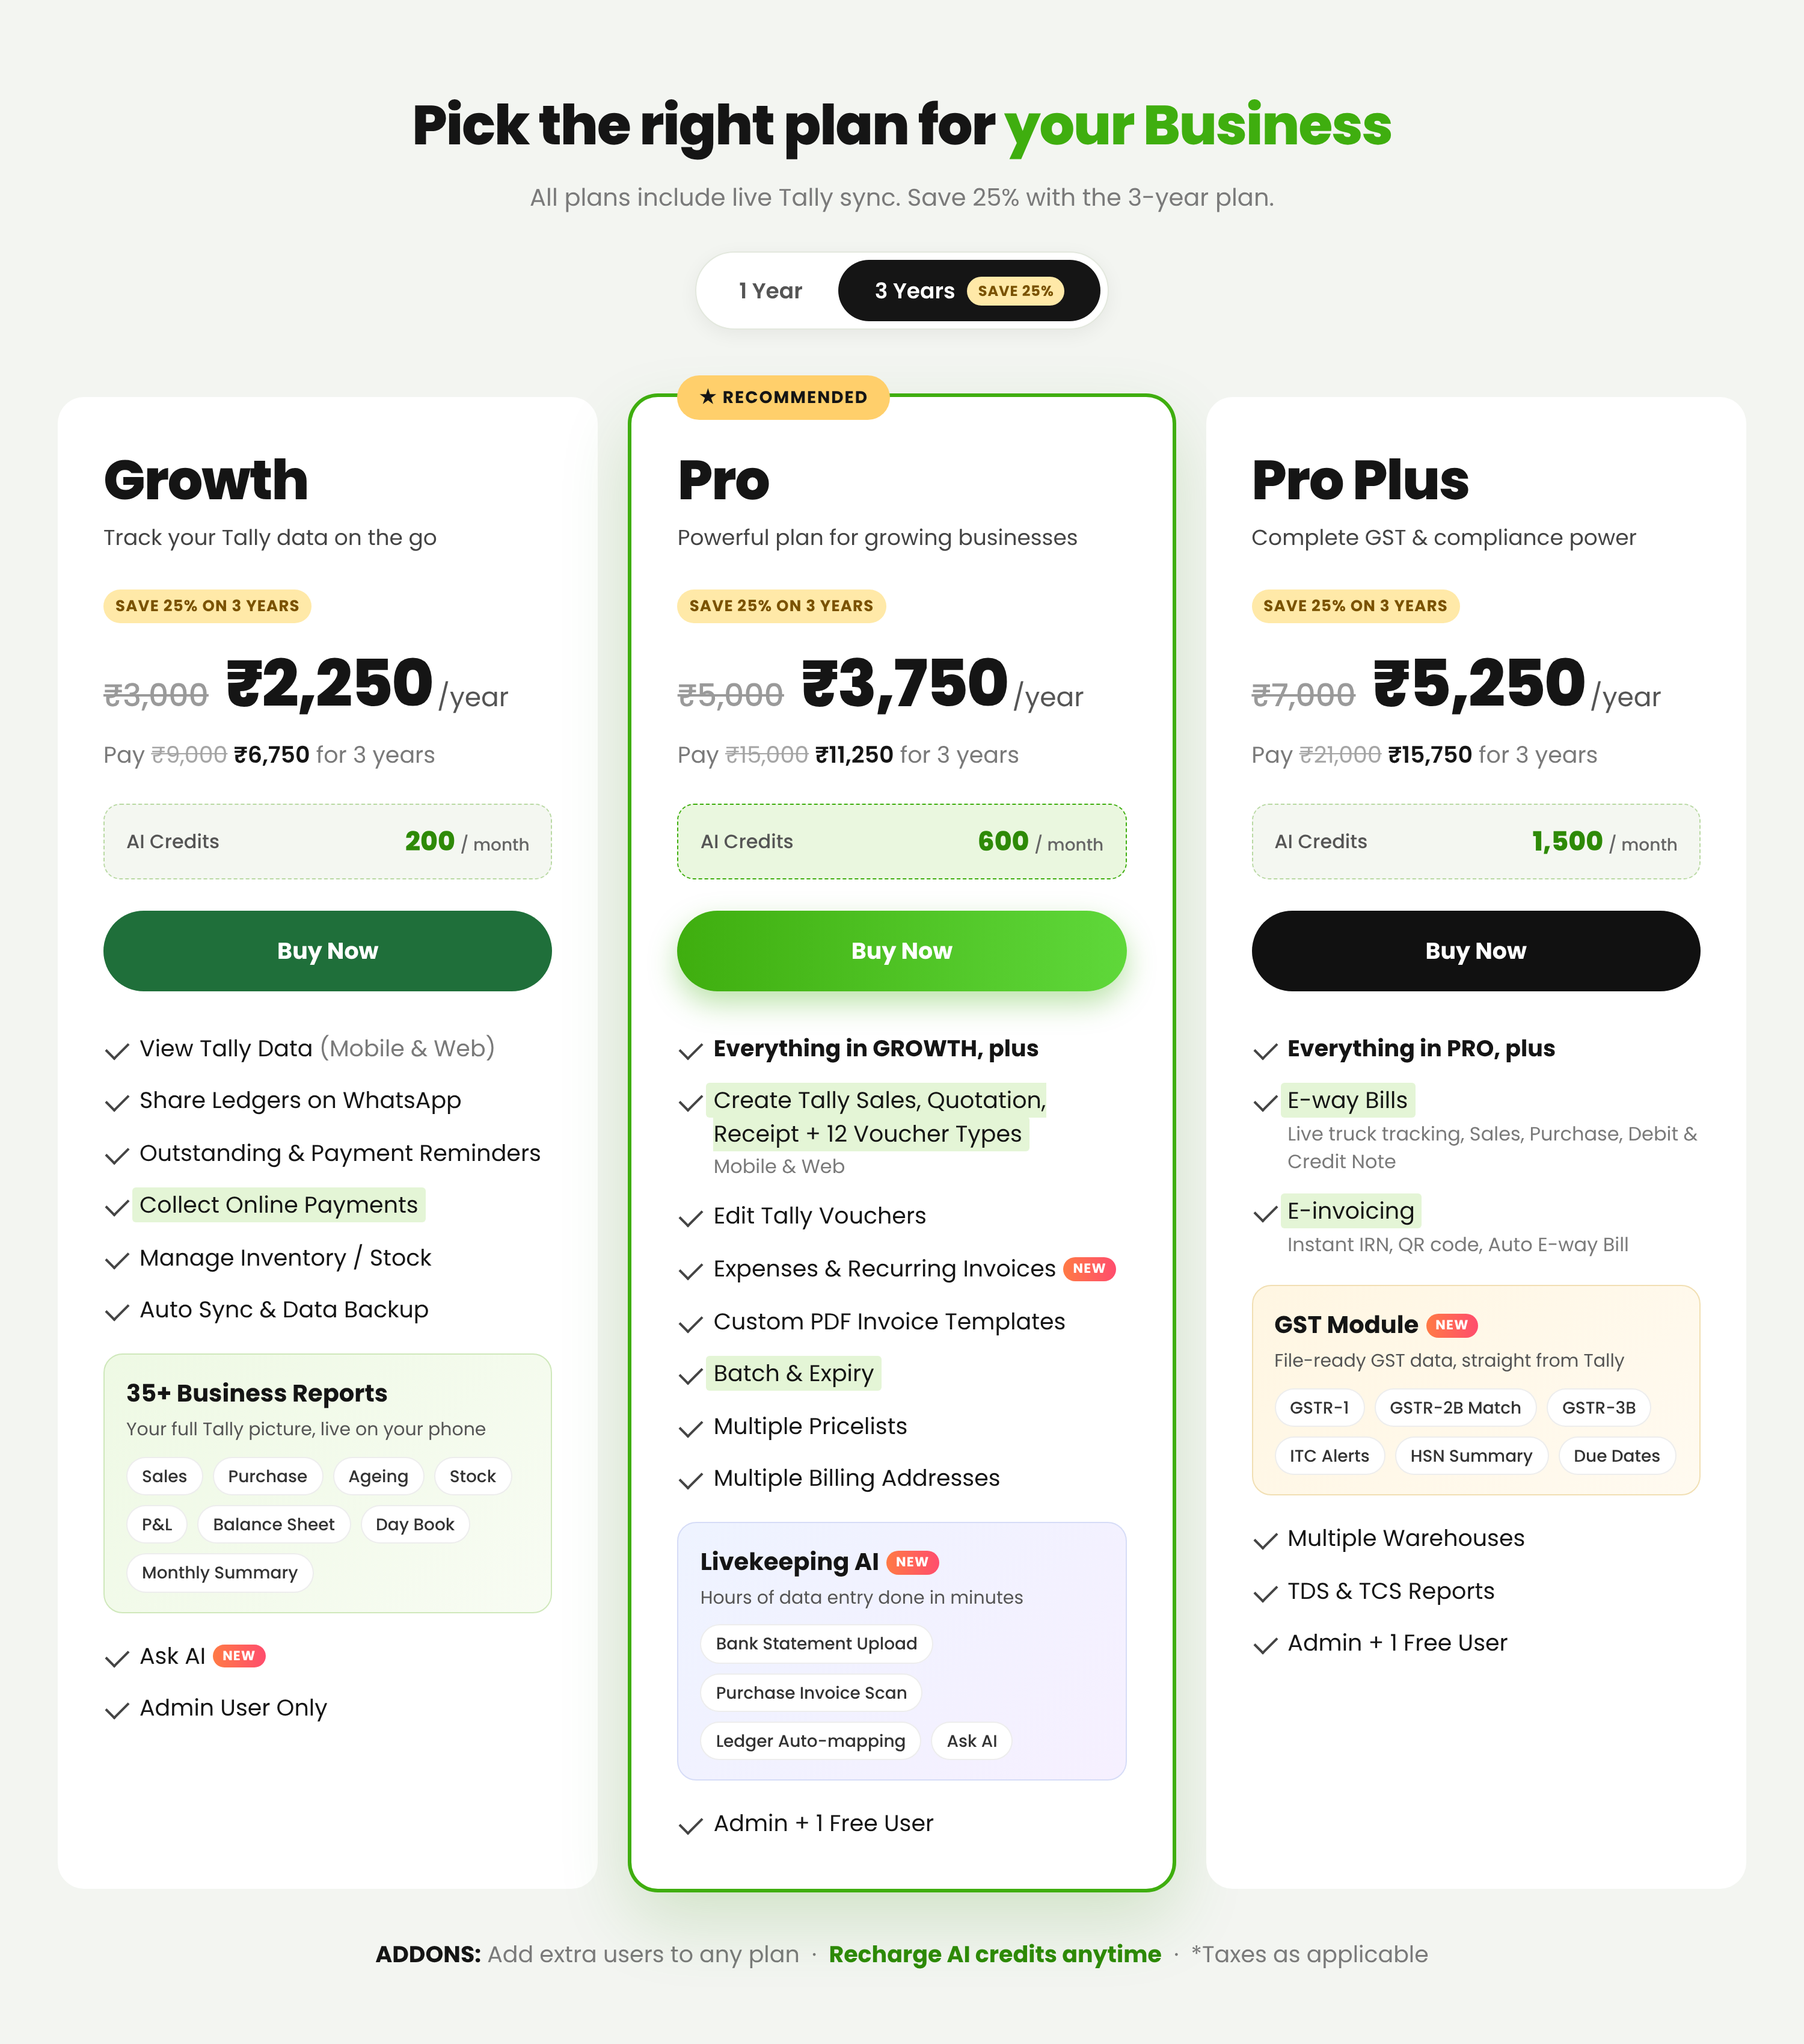
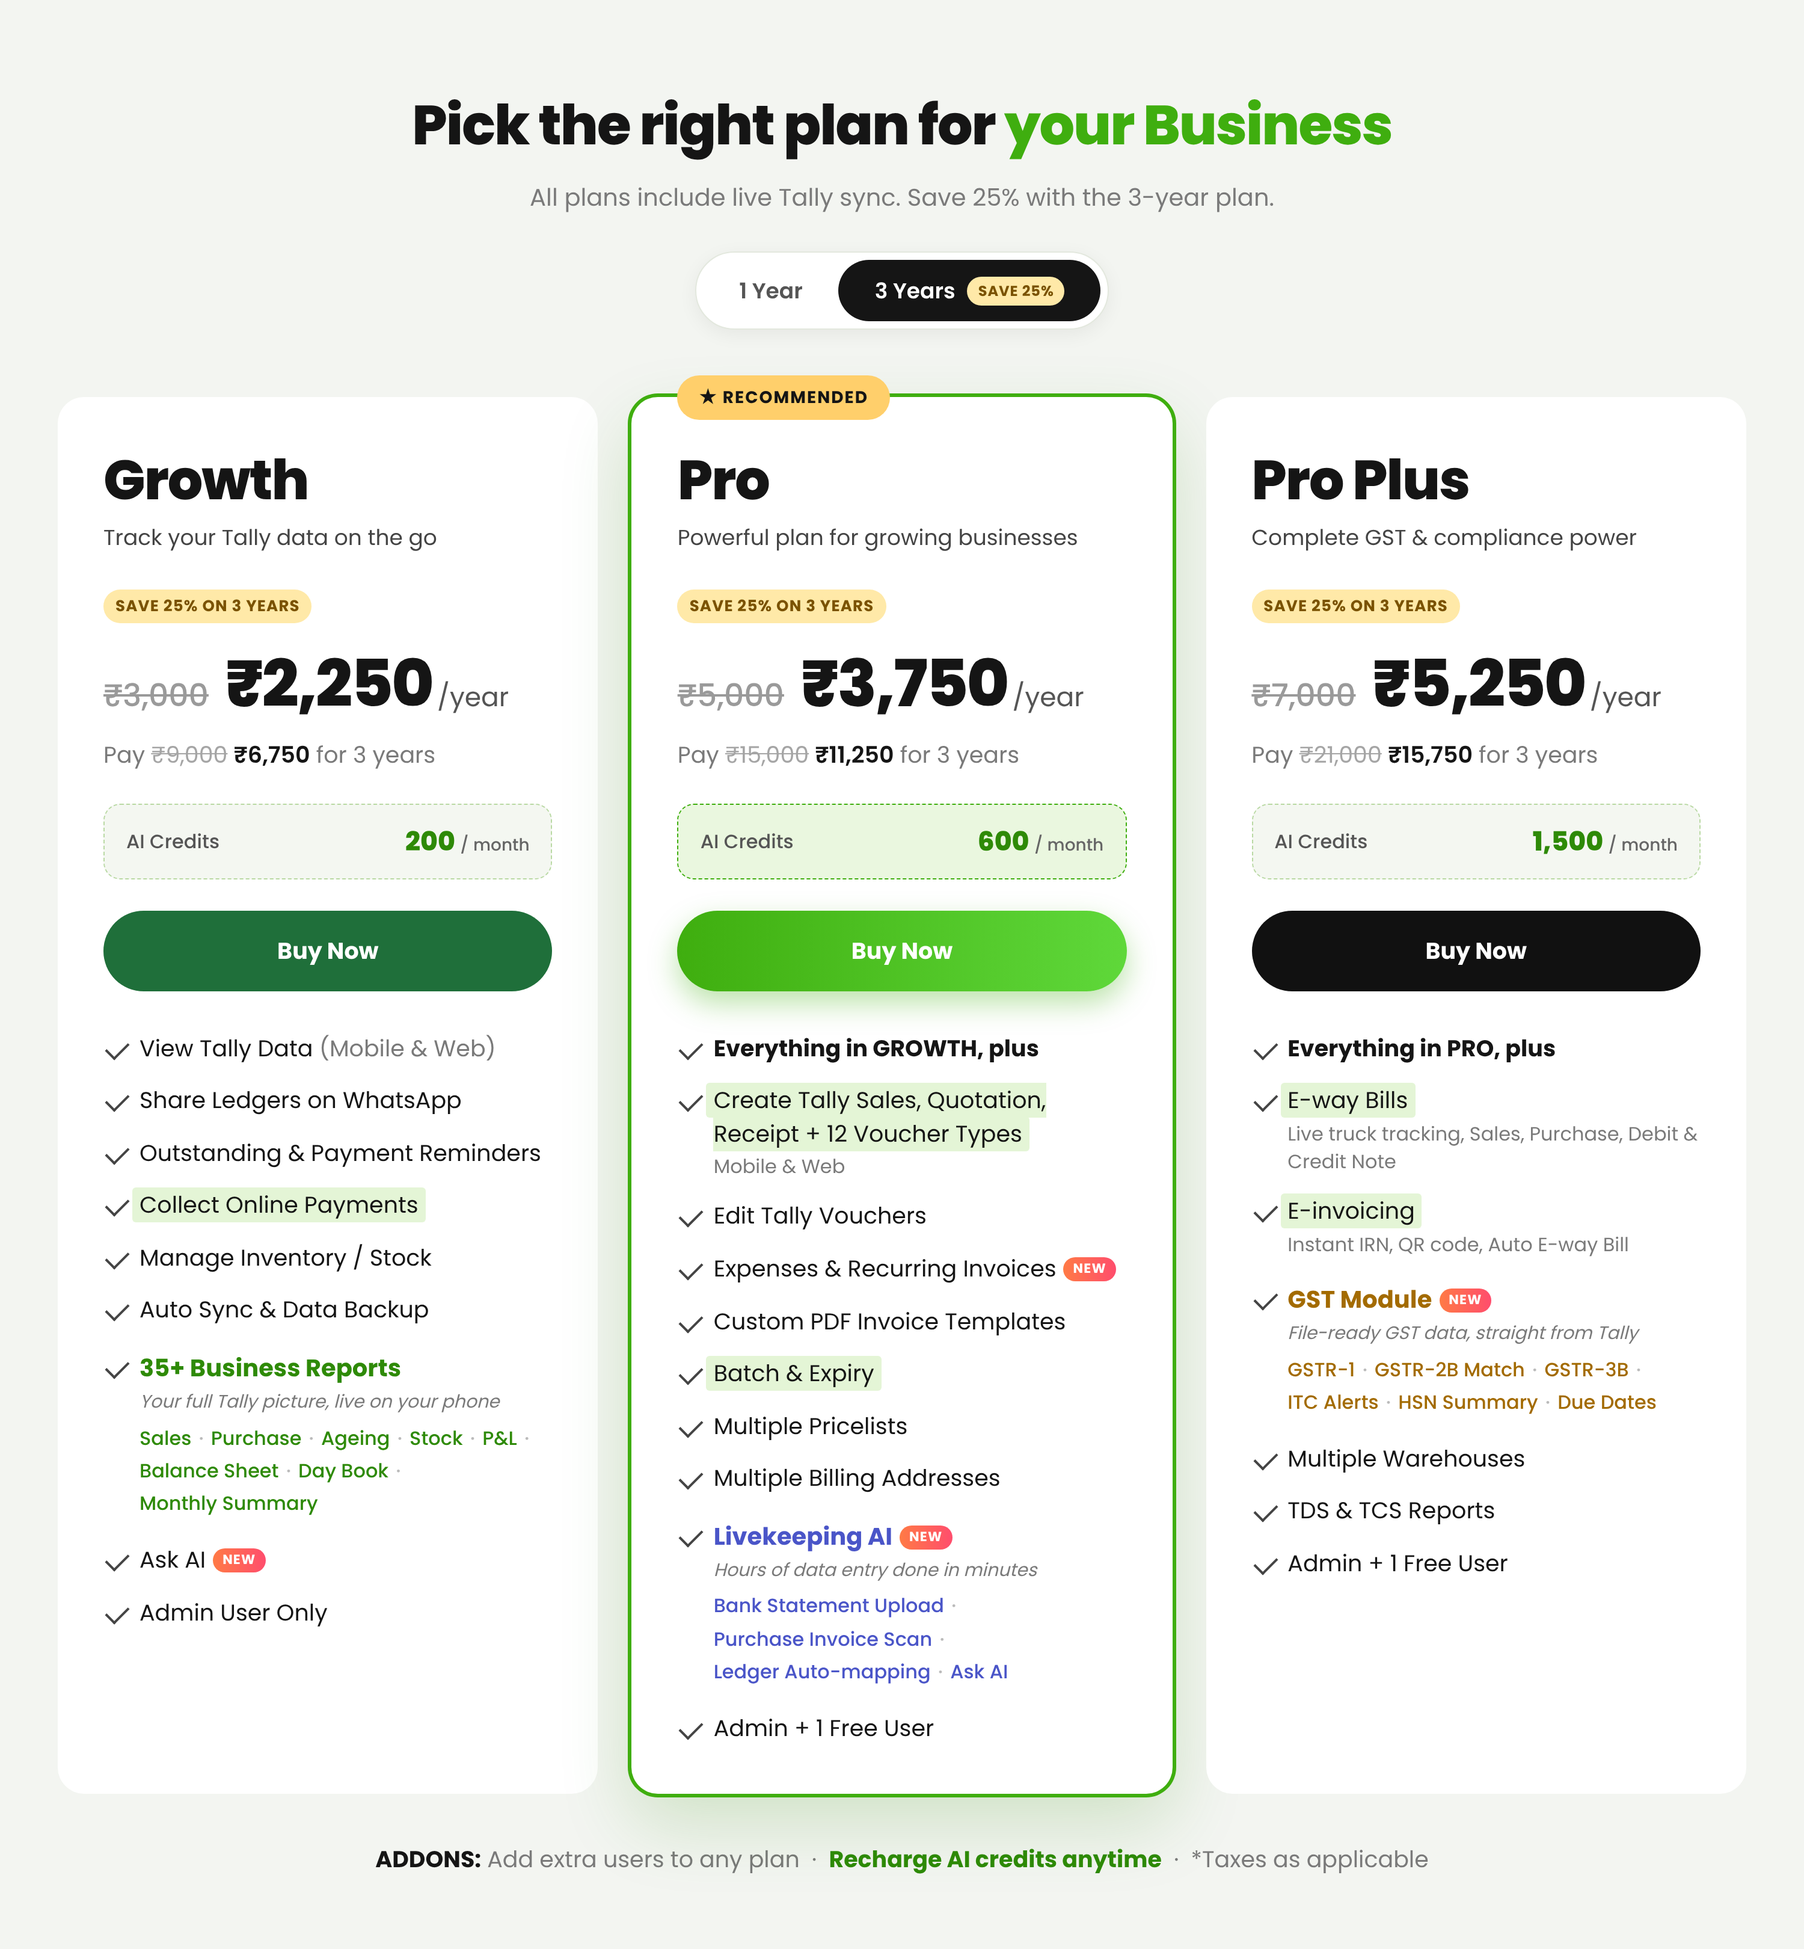
Pricing cards: modules as coloured inline text instead of boxes
Claude-Session: https://claude.ai/code/session_01TUFe6273V25gsCzznixesV

diff --git a/livekeeping-pricing/cards.html b/livekeeping-pricing/cards.html
@@ -100,6 +100,15 @@
   .mod-desc { font-size: 15px; color: #555; margin-top: 4px; }
   .chips { display: flex; flex-wrap: wrap; gap: 8px; margin-top: 12px; }
   .chip { background: #fff; border: 1px solid rgba(0,0,0,.07); border-radius: 20px; padding: 5px 12px; font-size: 14px; font-weight: 500; color: #333; }
+  li.feat .feat-title { font-weight: 700; font-size: 20px; }
+  li.feat .feat-desc { display: block; font-size: 15px; color: var(--muted); font-style: italic; margin-top: 2px; }
+  li.feat .feat-pts { display: block; font-size: 16px; font-weight: 500; line-height: 1.7; margin-top: 6px; }
+  li.feat .feat-pts b { white-space: nowrap; font-weight: 500; }
+  li.feat .feat-pts i { font-style: normal; color: #bbb; margin: 0 2px; }
+  li.feat.rep .feat-title, li.feat.rep .feat-pts { color: var(--green-dark); }
+  li.feat.ai .feat-title, li.feat.ai .feat-pts { color: #4a55c8; }
+  li.feat.gst .feat-title, li.feat.gst .feat-pts { color: #a36b00; }
+  li.feat { padding: 4px 0; }
   .addons { text-align: center; margin-top: 40px; font-size: 19px; color: var(--muted); }
   .addons b { color: var(--text); }
   .addons .rc { color: var(--green-dark); }
@@ -141,11 +150,7 @@
         <li><div><span class="hl">Collect Online Payments</span></div></li>
         <li><div>Manage Inventory / Stock</div></li>
         <li><div>Auto Sync &amp; Data Backup</div></li>
-        <li class="module"><div class="mod">
-          <div class="mod-head"><span class="mod-title">35+ Business Reports</span></div>
-          <div class="mod-desc">Your full Tally picture, live on your phone</div>
-          <div class="chips"><span class="chip">Sales</span><span class="chip">Purchase</span><span class="chip">Ageing</span><span class="chip">Stock</span><span class="chip">P&amp;L</span><span class="chip">Balance Sheet</span><span class="chip">Day Book</span><span class="chip">Monthly Summary</span></div>
-        </div></li>
+        <li class="feat rep"><div><span class="feat-title">35+ Business Reports</span><span class="feat-desc">Your full Tally picture, live on your phone</span><span class="feat-pts"><b>Sales</b> <i>·</i> <b>Purchase</b> <i>·</i> <b>Ageing</b> <i>·</i> <b>Stock</b> <i>·</i> <b>P&amp;L</b> <i>·</i> <b>Balance Sheet</b> <i>·</i> <b>Day Book</b> <i>·</i> <b>Monthly Summary</b></span></div></li>
         <li><div>Ask AI<span class="new">NEW</span></div></li>
         <li><div>Admin User Only</div></li>
       </ul>
@@ -177,11 +182,7 @@
         <li><div><span class="hl">Batch &amp; Expiry</span></div></li>
         <li><div>Multiple Pricelists</div></li>
         <li><div>Multiple Billing Addresses</div></li>
-        <li class="module"><div class="mod ai">
-          <div class="mod-head"><span class="mod-title">Livekeeping AI<span class="new">NEW</span></span></div>
-          <div class="mod-desc">Hours of data entry done in minutes</div>
-          <div class="chips"><span class="chip">Bank Statement Upload</span><span class="chip">Purchase Invoice Scan</span><span class="chip">Ledger Auto-mapping</span><span class="chip">Ask AI</span></div>
-        </div></li>
+        <li class="feat ai"><div><span class="feat-title">Livekeeping AI</span><span class="new">NEW</span><span class="feat-desc">Hours of data entry done in minutes</span><span class="feat-pts"><b>Bank Statement Upload</b> <i>·</i> <b>Purchase Invoice Scan</b> <i>·</i> <b>Ledger Auto-mapping</b> <i>·</i> <b>Ask AI</b></span></div></li>
         <li><div>Admin + 1 Free User</div></li>
       </ul>
     </div>
@@ -206,11 +207,7 @@
         <li><div><b>Everything in PRO, plus</b></div></li>
         <li><div><span class="hl">E-way Bills</span><span class="note">Live truck tracking, Sales, Purchase, Debit &amp; Credit Note</span></div></li>
         <li><div><span class="hl">E-invoicing</span><span class="note">Instant IRN, QR code, Auto E-way Bill</span></div></li>
-        <li class="module"><div class="mod gst">
-          <div class="mod-head"><span class="mod-title">GST Module<span class="new">NEW</span></span></div>
-          <div class="mod-desc">File-ready GST data, straight from Tally</div>
-          <div class="chips"><span class="chip">GSTR-1</span><span class="chip">GSTR-2B Match</span><span class="chip">GSTR-3B</span><span class="chip">ITC Alerts</span><span class="chip">HSN Summary</span><span class="chip">Due Dates</span></div>
-        </div></li>
+        <li class="feat gst"><div><span class="feat-title">GST Module</span><span class="new">NEW</span><span class="feat-desc">File-ready GST data, straight from Tally</span><span class="feat-pts"><b>GSTR-1</b> <i>·</i> <b>GSTR-2B Match</b> <i>·</i> <b>GSTR-3B</b> <i>·</i> <b>ITC Alerts</b> <i>·</i> <b>HSN Summary</b> <i>·</i> <b>Due Dates</b></span></div></li>
         <li><div>Multiple Warehouses</div></li>
         <li><div>TDS &amp; TCS Reports</div></li>
         <li><div>Admin + 1 Free User</div></li>
